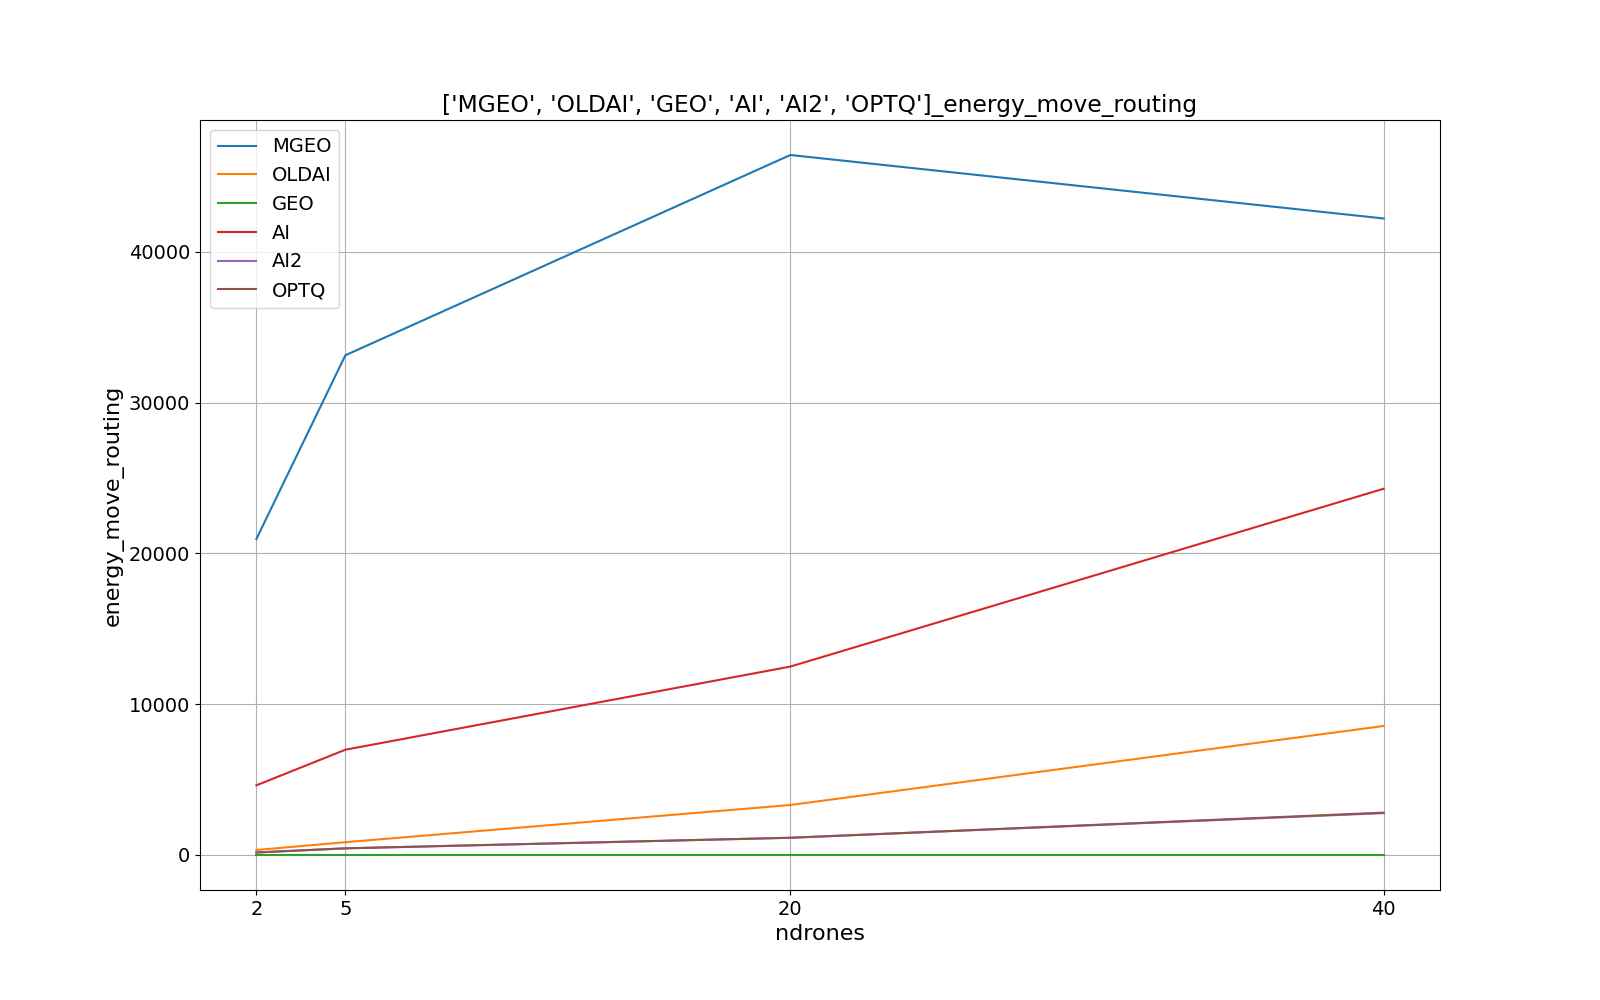
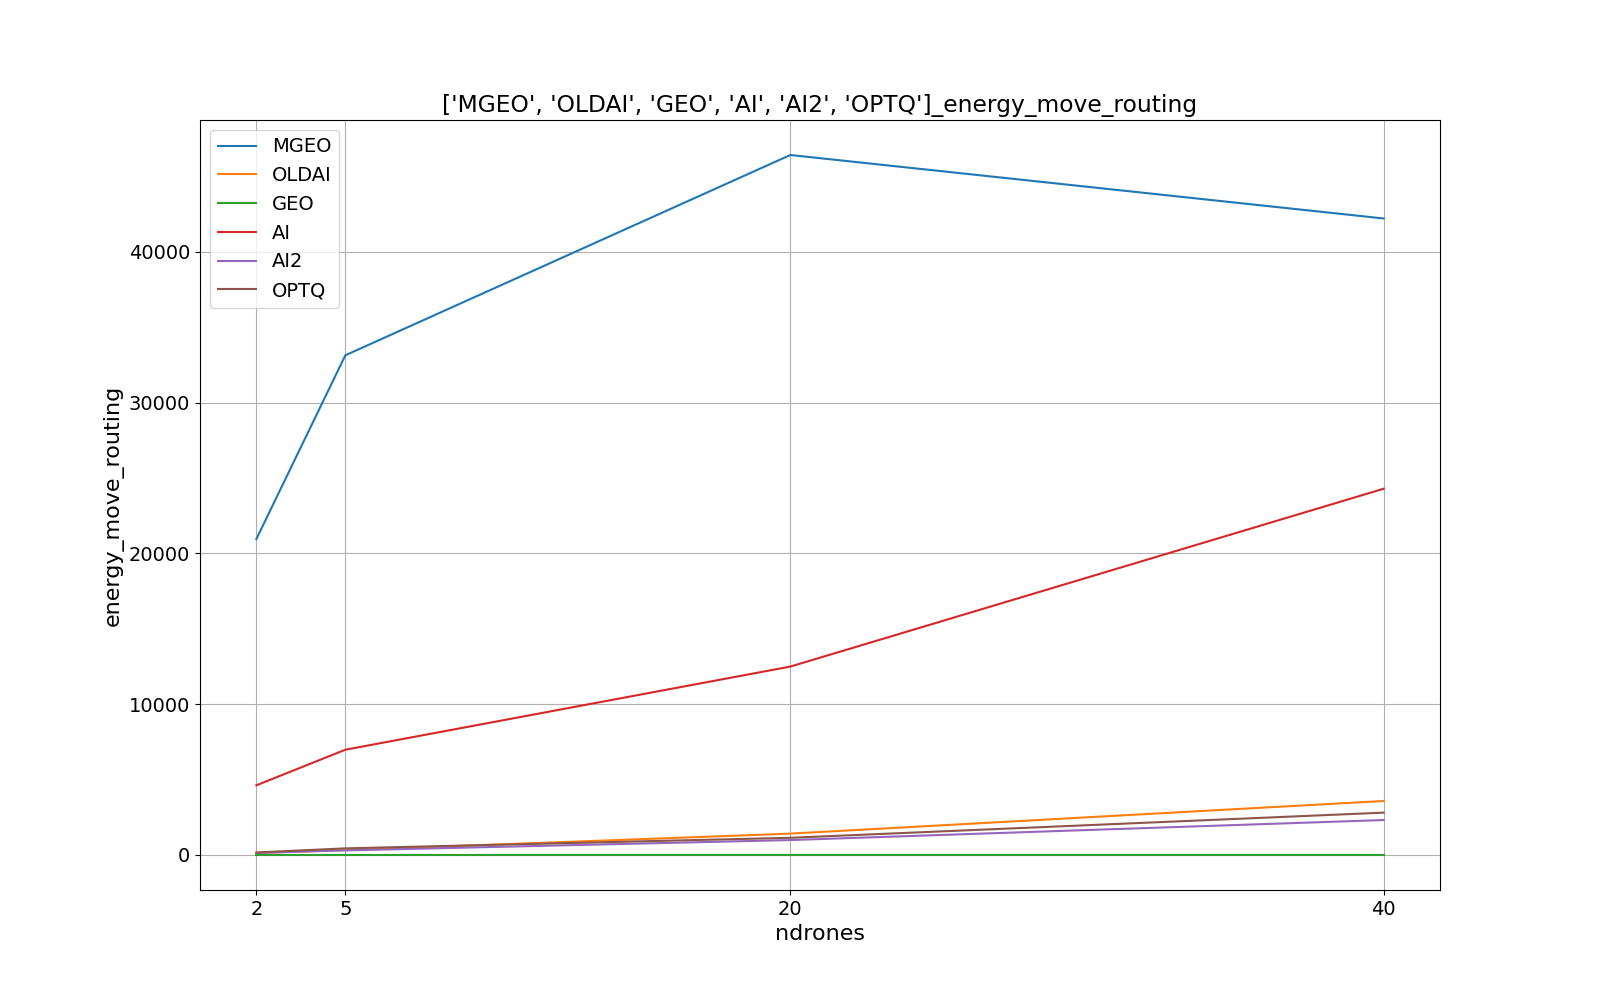
update mixed rl with value 1.1 at the distance and epsilon = 0.01 and also plots in commit_2 and also oldai with value 1.1

Changed region(s): [[0.1562, 0.806, 0.8438, 0.868]]

diff --git a/HW_2/Commit_1/Mixed_RL/ai_routing.py b/HW_2/Commit_1/Mixed_RL/ai_routing.py
@@ -24,7 +24,7 @@ class AI2Routing(BASE_routing):
         # self.q_value = [][]  # [N-cells][N-action] : N-actions =  0:send_pkt, 1:keep_pkt, 2:move_to_depot
         # self.q_value = np.array([[0 for i in range(self.action_number)] for j in range(self.cell_number)])
         self.q_value = [[0 for i in range(self.action_number)] for j in range(self.cell_number)]
-        self.epsilon = 0.001
+        self.epsilon = 0.01
         self.alpha = 0.5
         self.gamma = 0.9
         self.expired_packets = defaultdict(list)
@@ -77,7 +77,7 @@ class AI2Routing(BASE_routing):
                                                            x_pos=self.drone.coords[0], y_pos=self.drone.coords[1])[0])
         # Check if goind to depot is a good action now
         if util.euclidean_distance(self.simulator.depot_coordinates,
-                                   self.drone.coords) < self.drone.depot.communication_range * 1.15:
+                                   self.drone.coords) < self.drone.depot.communication_range * 1.1:
             AI2Routing.move_to_depot += 1
             action = 2
             next_target_coord = self.drone.next_target()

diff --git a/HW_2/Commit_1/Old_AI/ai_routing.py b/HW_2/Commit_1/Old_AI/ai_routing.py
@@ -65,7 +65,7 @@ class OLDAIRouting(BASE_routing):
     def relay_selection(self, opt_neighbors, pkd):
         # Before the epsilon greedy selection we check if the action 2 can be good
         if util.euclidean_distance(self.simulator.depot_coordinates,
-                                   self.drone.coords) < self.drone.depot.communication_range * 1.25:
+                                   self.drone.coords) < self.drone.depot.communication_range * 1.1:
             OLDAIRouting.move_to_depot += 1
             self.taken_actions[pkd.event_ref] = 2
             return -1
